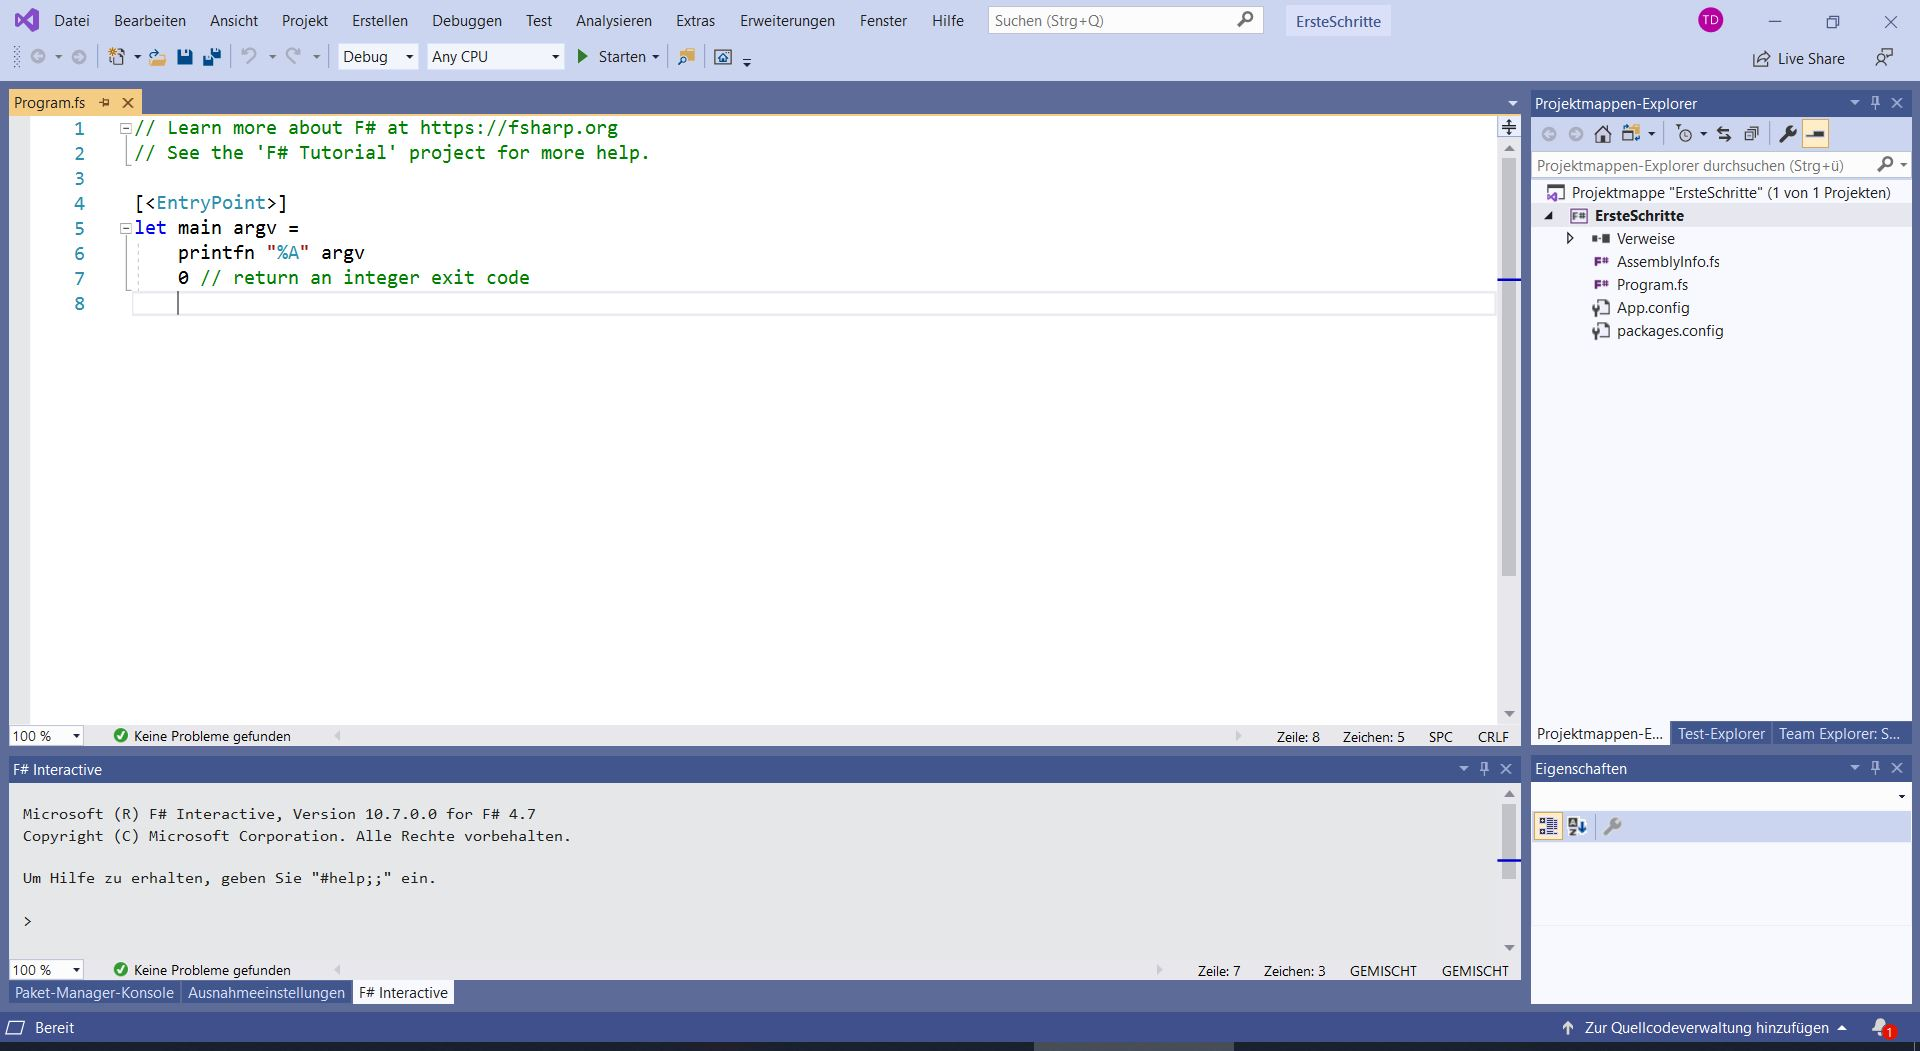
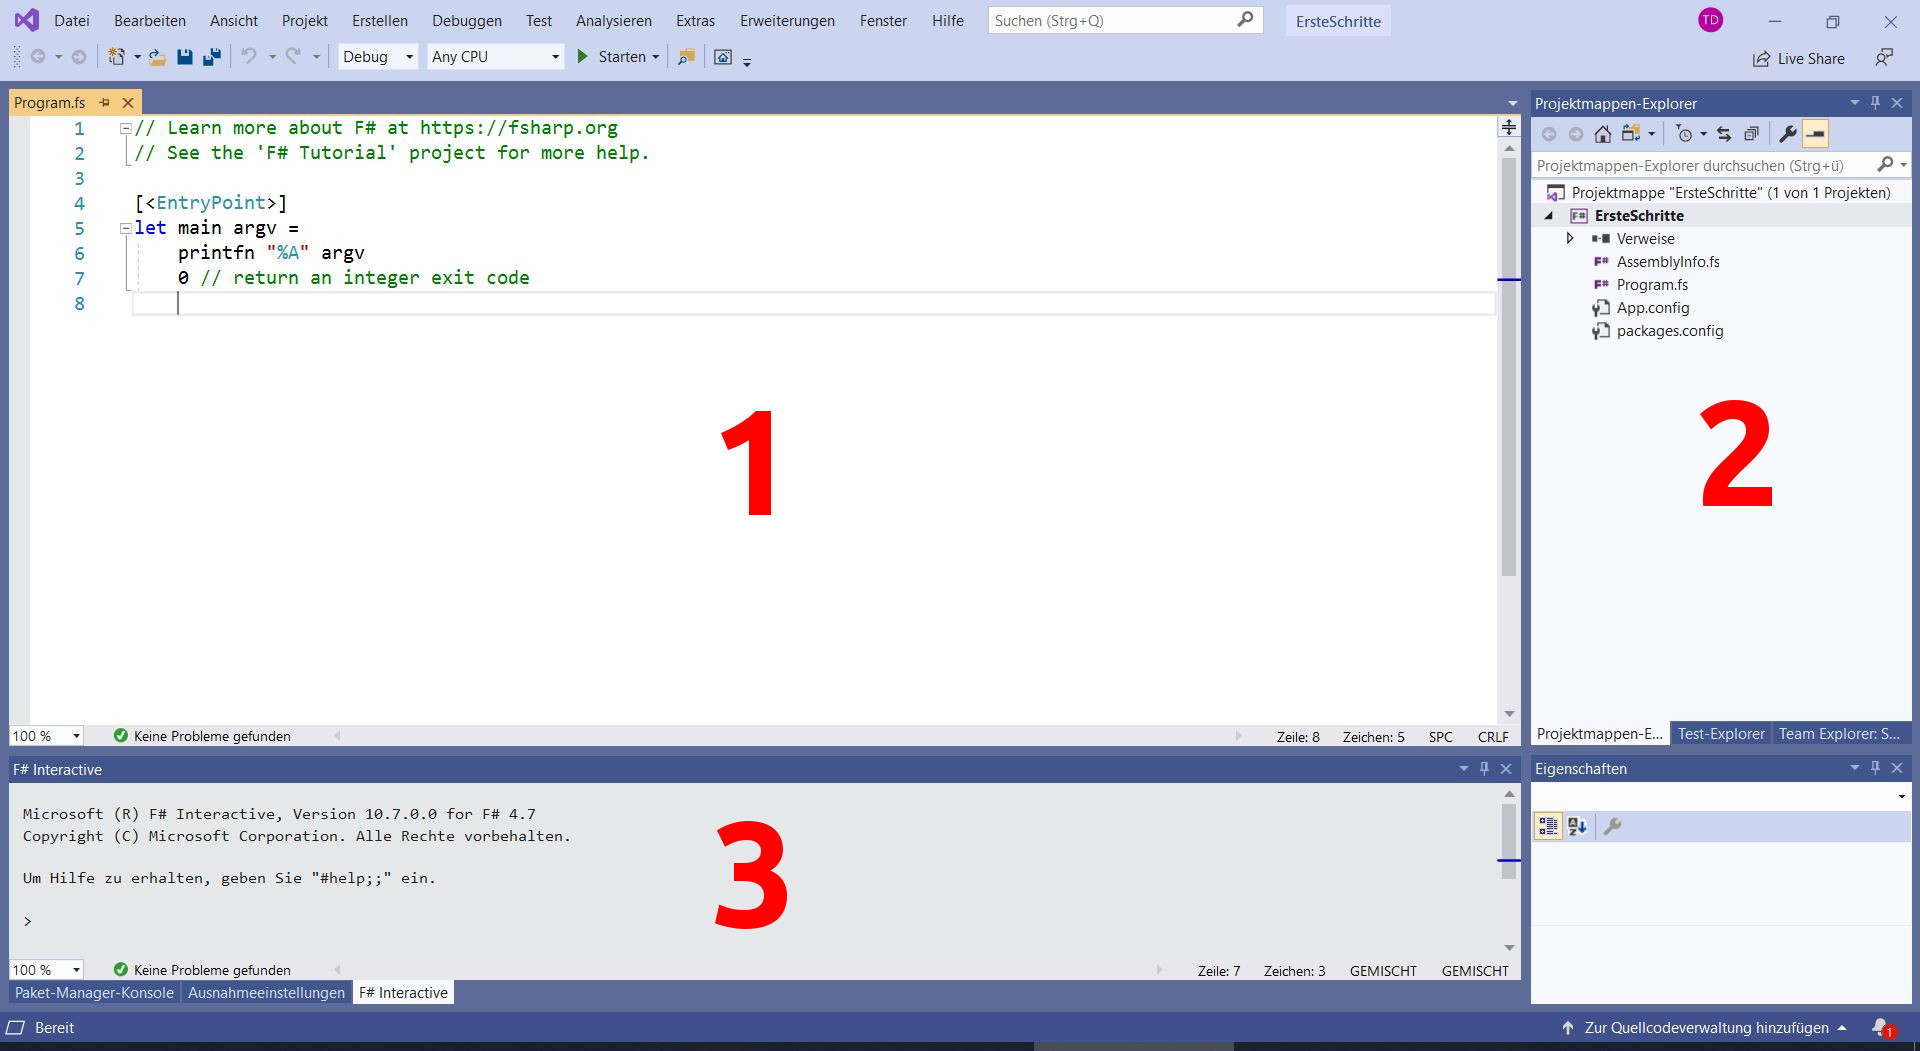
Improve Image & Add Corrections

Changed region(s): [[0.875, 0.3654, 0.9375, 0.4872], [0.375, 0.7612, 0.4062, 0.883], [0.375, 0.3958, 0.4062, 0.4872]]

diff --git a/draft/visualstudio.md b/draft/visualstudio.md
@@ -6,34 +6,34 @@ author: tim-digel
 tags: ["F#", "F Sharp", "Visual Studio", "Einführung", "Erste Schritte", "Projekt", "Start"]
 ---
 
-F# (F Sharp) ist eine von Microsoft entwickelte funktionale Programmiersprache im _.NET_-Universum. Die Syntax erinnert sehr stark an _OCaml_. Microsoft bietet mit _Visual Studio_ eine komplette Entwicklungsumgebung an, die neben F# auch mit vielen weiteren Sprachen zu recht kommt. In diesem Blogpost schauen wir uns erste Schritte im Zusammenspiel von F# mit Visual Code an und erklären einige ungewöhnliche Eigenarten. Wir erklären hier weniger die Sprache an sich. Dafür verweisen wir auf einen zeitnah erscheindenen Blogartikel zum Kennenlernen von F#.  
+F# (F Sharp) ist eine von Microsoft entwickelte funktionale Programmiersprache im _.NET_-Universum. Die Syntax erinnert sehr stark an _OCaml_. Microsoft bietet mit _Visual Studio_ eine komplette Entwicklungsumgebung an, die neben F# auch mit vielen weiteren Sprachen zurecht kommt. In diesem Blogpost sehen wir uns erste Schritte im Zusammenspiel von F# mit Visual Code an und erläutern einige ungewöhnliche Eigenarten. Erklärungen zum Syntax von F# lassen wir weitestgehend außer acht. Dafür verweisen wir auf einen zeitnah erscheinenden Blogartikel zum Kennenlernen von F#.  
 <!-- more start -->
 
 ## Bevor es los geht
 
-Visual Studio ist in der vollumfänglichen Variante nur für Windows verfügbar und ist nicht zu verwechseln mit _Visual Studio Code_. Visual Studio ist in der [Community Edition](https://visualstudio.microsoft.com/de/vs/community/) kostenlos installierbar. Wir wählen bei der Installation das zusätzliche Paket (Workload) _.NET Desktopentwicklung_ aus. F# an sich ist in Visual Studio direkt enthalten.  
+Visual Studio ist in der vollumfänglichen Variante nur für Windows verfügbar und ist nicht zu verwechseln mit _Visual Studio Code_. Visual Studio ist in der [Community Edition](https://visualstudio.microsoft.com/de/vs/community/) kostenlos installierbar. Wir wählen bei der Installation das zusätzliche Paket (Workload) _.NET Desktopentwicklung_ aus. F# ist in Visual Studio direkt enthalten.  
 
-Wir öffnen Visual Studio und wählen _Neues Projekt erstellen_ auf dem Willkommensbildschirm. Im Suchfeld geben wir _F#_ ein und wählen _Konsolenanwendung (.NET Framework)_. Um das Projekt zu erstellen vergeben wir im nächsten Schritt noch den Namen _ErsteSchritte_ und wählen einen Speicherort aus.  
+Wir öffnen Visual Studio und wählen _Neues Projekt erstellen_ auf dem Willkommensbildschirm. Im Suchfeld geben wir _F#_ ein und wählen _Konsolenanwendung (.NET Framework)_. Um das Projekt zu erstellen, vergeben wir im nächsten Schritt noch den Namen _ErsteSchritte_ und wählen einen Speicherort aus.  
 
 ## Übersicht
 
-Das folgende Bild zeigt den groben Aufbau in unserem neu angelegten Projekt.  
+Das folgende Bild zeigt dem Aufbau in unserem neu angelegten Projekt.  
 
 [![Visual Studio Übersicht](2020-01-20-f-sharp-visual-studio-erste-schritte/visual-studio-neues-projekt.jpg "Visual Studio Übersicht")](2020-01-20-f-sharp-visual-studio-erste-schritte/visual-studio-neues-projekt.jpg)
 
-Links oben, im großen Fenster, ist die beispielhafte _Program.fs_ geöffnet. Rechts sehen wir den _Projektmappen-Explorer_. In unserer Projektmappe (Workspace) _ErsteSchritte_ haben wir momentan nur das gleichnamige Projekt (Solution) _ErsteSchritte_. In einer Projektmappe können verschiedene Projekte angelegt werden. Dabei kann jedes Projekte andere Abhängigkeiten und Einstellungen haben (siehe [Abschnitt Pakete mit NuGet installieren](#pakete-mit-nuget-installieren)).  
+Links oben (1) ist die beispielhafte _Program.fs_-Datei geöffnet. Rechts (2) sehen wir den _Projektmappen-Explorer_. In unserer Projektmappe (Workspace) _ErsteSchritte_ haben wir momentan nur das gleichnamige Projekt (Solution) _ErsteSchritte_. In einer Projektmappe können verschiedene Projekte angelegt werden. Dabei kann jedes Projekt andere Abhängigkeiten und Einstellungen haben (siehe [Abschnitt Pakete mit NuGet installieren](#pakete-mit-nuget-installieren)).  
 
-Unten sehen wir _F# Interactive_, die Konsole oder Repl, um direkt F#-Anweisungen ausführen zu können.
+Unten (3) sehen wir _F# Interactive_, die Konsole oder Repl, in der wir direkt F#-Anweisungen ausführen können.
 
 ## F# Interactive
 
-Um die _F# Interactive_ Konsole aufzurufen, können wir eine Codeanweisung, z. B. die `0` aus der beispielhaften _Program.fs_, markieren und im Kontextmenu _Interaktiv ausführen_ wählen. Die Anweisung wird ausgeführt und sollte in unserem Beispiel zu
+Um die _F# Interactive_-Konsole aufzurufen, können wir eine Codeanweisung, z. B. die `0` aus _Program.fs_, markieren und im Kontextmenu _Interaktiv ausführen_ wählen. Die Anweisung wird ausgeführt und sollte in unserem Beispiel zu
 ```fsharp
 val it : int = 0
 ```
-führen. Da wir nur einen Wert eingegeben haben, bindet _F# Interactive_ diesen an die mutierbare Variable _it_. Wir können in späteren Anweisungen den Bezeichner `it` verwenden, um den Wert abzurufen, analog zur `ANS`-Funktionalität bei Taschenrechnern.  
+führen. Da wir nur einen Wert eingegeben haben, bindet _F# Interactive_ diesen an die mutierbare Variable `it`. Wir können in späteren Anweisungen den Bezeichner `it` verwenden, um den Wert abzurufen, analog zur `ANS`-Funktionalität bei Taschenrechnern, die den letzten errechneten Wert (_Answer_) repräsentiert.  
 
-Wir können im Fenster von `F# Interactive` auch direkt Anweisungen eintippen, z. B.:
+Im Fenster von `F# Interactive` lassen sich auch direkt Anweisungen eintippen, z. B.:
 ```fsharp
 4 + 5;;
 ```
@@ -42,7 +42,7 @@ Dabei müssen wir jede Anweisung mit `;;` beenden, um sie mit Enter ausführen z
 
 ## Program.fs
 
-Die _Program.fs_ ist der Startpunkt unserer Anwendung. Innerhalb dieser Datei sehen wir die Markierung `[<EntryPoint>]`, welche die Funktion mit dem Namen `main` als initialen Aufruf festlegt. Ändern wir diese Funktion ab zu:
+_Program.fs_ ist der Startpunkt unserer Anwendung. Innerhalb dieser Datei sehen wir die Markierung `[<EntryPoint>]`, welche die Funktion mit dem Namen `main` als initialen Aufruf festlegt. Wir ändern diese Funktion wie folgt ab:
 ```fsharp
 [<EntryPoint>]
 let main argv =
@@ -55,20 +55,20 @@ Um die Ausgabe sehen zu können, kann die Ausführung auch mit offenbleibendem T
 
 ## Haltepunkte
 
-Alternativ können wir die Zeile mit der `0` markieren und im Kontextmenü _Haltepunkt_, _Haltepunkt einfügen_ auswählen. Wenn wir nun auf Start gehen, unterbricht Visual Studio vor dieser Stelle die Ausführung. Als Folge davon, können wir die Ausgabe in der Konsole betrachten, indem wir das Konsolenfenster in den Vordergrund bringen. Sobald wir auf den Button _Weiter_ drücken, wird der Haltepunkt durchlaufen und unser Beispielprogramm ist beendet. Durch Rechtsklick auf den links sichtbaren Haltepunkt und _Haltepunkt löschen_ können wir diesen wieder entfernen.  
+Alternativ können wir die Zeile mit der `0` markieren und im Kontextmenü _Haltepunkt_, _Haltepunkt einfügen_ auswählen. Wenn wir nun auf Start gehen, unterbricht Visual Studio vor dieser Stelle die Ausführung. Als Folge davon können wir die Ausgabe in der Konsole betrachten, indem wir das Konsolenfenster in den Vordergrund bringen. Sobald wir auf den Button _Weiter_ drücken, wird der Haltepunkt durchlaufen und unser Beispielprogramm ist beendet. Durch Rechtsklick auf den links sichtbaren Haltepunkt und _Haltepunkt löschen_ können wir diesen wieder entfernen.  
 
-Haltepunkte eignen sich später sehr gut zum Debuggen. Hält das Programm an einem Haltepunkt an, zeigen alle bisher berechneten Variablen ihren Wert an, wenn man die Maus darüber hält.
+Haltepunkte eignen sich später sehr gut zum Debuggen. Hält das Programm an einem Haltepunkt an, wird der Weter aller verfügbarerVariablen angezeigt, wenn man die Maus darüber hält.
 
 ## Projektmappen-Explorer
 
-Im obigen Übersichtsbild haben wir rechts den Projektmappen-Explorer erwähnt. Hier sehen wir neben einigen Konfigurationsdateien unsere _Program.fs_. Wir können durch Rechtsklick auf unser Projekt, mit _Hinzufügen_, _Neues Element_, _Quelldatei_ eine neue Modul-Datei hinzufügen. Wir nennen diese _MeinModul.fs_.  
+Im obigen Übersichtsbild sehen wir rechts den Projektmappen-Explorer. Neben einigen Konfigurationsdateien wird unsere _Program.fs_ aufgelistet. Wir können durch Rechtsklick auf unser Projekt, mit _Hinzufügen_, _Neues Element_, _Quelldatei_ eine neue Modul-Datei hinzufügen. Wir nennen diese _MeinModul.fs_.  
 
-Die Datei erscheint im Projektmappen-Explorer an letzter Stelle. Die Dateien werden anhand ihrer Reihenfolge geladen. Da wir später _MeinModul_ aus der Hauptmethode in _Program.fs_ aufrufen wollen, müssen wir _MeinModul.fs_ nach oben schieben. Dazu klicken wir auf die Datei und navigieren sie mit _ALT + PFEIL OBEN_ nach oben. Drag und Drop stellt eine andere Funktionalität dar. Dieses Verhalten soll evtl. in einer zukünftigen Visual Studio Version geändert werden.
+Die Datei erscheint im Projektmappen-Explorer an letzter Stelle. Die Dateien werden der Reihenfolge nach geladen. Da wir später _MeinModul_ aus der Hauptmethode in _Program.fs_ aufrufen wollen, müssen wir _MeinModul.fs_ nach oben schieben. Dazu klicken wir auf die Datei und navigieren sie mit _ALT + PFEIL OBEN_ nach oben. Drag und Drop stellt eine andere Funktionalität dar (duplizieren der Datei). Dieses Verhalten soll evtl. in einer zukünftigen Visual Studio Version geändert werden.
 
 
 ## Live-Kompilierung mit IntelliSense
 
-Wir bearbeiten unsere neu erstellte Modul-Datei und definieren uns die Kreiszahl. Dabei fügen wir zuerst am Ende von `module MeinModul` ein `=`-Zeichen an.
+Wir bearbeiten unsere neu erstellte Modul-Datei und definieren die Kreiszahl. Dabei fügen wir zuerst am Ende von `module MeinModul` ein `=`-Zeichen an.
 ```fsharp
 module MeinModul = 
 
@@ -86,20 +86,20 @@ Wir fügen der _MeinModul.fs_ als erste Zeile
 ```fsharp
 namespace ErsteSchritte
 ```
-hinzu. Das Programm startet jetzt ohne Fehlermeldung. Evtl. bleibt die vorherige Meldung noch in der _Fehlerliste_ sichtbar. Um dies zu lösen, klicken wir rechts auf _ErsteSchritte_ im Projektmappen-Explorer und wählen zuerst _Projekt entladen_ und anschließend _Projekt erneut laden_. Dieses Verhalten hängt mit der neu erstellten _MeinModul.fs_ und der dynamischen Generierung/Überprüfung mit _IntelliSense_ zusammen. _IntelliSense_ compiliert ständig im Hintergrund, um so Meldungen über falschen Syntax, nicht passende Typen oder sonstige Fehler aufmerksam zu machen. Entsprechende Stellen werden rot unterstrichen. Zusätzlich sind sie in der _Fehlerliste_ sichtbar, sofern dort der Modus _Nur IntelliSense_ oder _Erstellen + IntelliSense_ gewählt ist.
-Zusätzlich bietet uns _IntelliSense_ die Möglichkeit der Autovervollständigung.
+hinzu. Das Programm startet jetzt ohne Fehlermeldung. Eventuell. bleibt die vorherige Meldung noch in der _Fehlerliste_ sichtbar. Um dies zu lösen, klicken wir rechts auf _ErsteSchritte_ im Projektmappen-Explorer und wählen zuerst _Projekt entladen_ und anschließend _Projekt erneut laden_. Dieses Verhalten hängt mit der neu erstellten _MeinModul.fs_ und der dynamischen Generierung/Überprüfung mit _IntelliSense_ zusammen. _IntelliSense_ kompiliert ständig im Hintergrund, um so Meldungen über falschen Syntax, nicht passende Typen oder sonstige Fehler aufmerksam zu machen. Entsprechende Stellen werden rot unterstrichen. Zusätzlich sind sie in der _Fehlerliste_ sichtbar, sofern dort der Modus _Nur IntelliSense_ oder _Erstellen + IntelliSense_ gewählt ist.
+Außerdem bietet uns _IntelliSense_ die Möglichkeit der Autovervollständigung.
 
 ## Aufruf einer Funktion
 
-In _Program.fs_ ändern wir die Ausgabe von "Hallo zusammen!" zu Pi, dafür ersetzen wir die Zeile mit `printfn` durch
+In _Program.fs_ ändern wir die Ausgabe von "Hallo zusammen!" auf den Aufruf von `pi` ab. Dafür ersetzen wir die Zeile mit `printfn` durch
 ```fsharp
 printfn "%A" ErsteSchritte.MeinModul.pi
 ```
-Durch Angabe des Namensraum, gefolgt von der Modulbezeichnung, können wir alle nicht privaten Funktionen und Werte aufrufen. Zum Test können wir in _MeinModul.fs_ `let pi` durch `let private pi` ersetzen. In der _Program.fs_ meldet uns nun _IntelliSense_, dass wir auf diesen Wert nicht zugreifen können. _IntelliSense_ erkennt dateiübergreifende Änderung erst nachdem man die Datei gespeichert hat.
+Durch Angabe des Namensraums, gefolgt von der Modulbezeichnung, können wir alle nicht privaten Funktionen und Werte aufrufen. Zum Test können wir in _MeinModul.fs_ `let pi` durch `let private pi` ersetzen. In der _Program.fs_ meldet uns nun _IntelliSense_, dass wir auf diesen Wert nicht zugreifen können. _IntelliSense_ erkennt dateiübergreifende Änderung erst nachdem man die Datei gespeichert hat.
 
 ## Test-Infrastruktur
 
-Da auch bei der Rundung von Pi Fehler entstehen können erstellen wir unmittelbar unseren ersten Testfall. Wir legen uns im Projektmappen-Explorer einen Ordner _Test_ an und erstellen darin die Quellcodedatei `MeinModulTest.fs`. Wir schieben mit _ALT + PFEIL UNTEN_ die _Program.fs_ wieder an die letzte Stelle. Die dort markierte _main_-Methode muss immer in der letzten Datei stehen. Falls erneut die Meldung bzgl. Namespace- oder Moduldeklaration erscheint, müssen wir wie oben beschrieben unser Projekt _ErsteSchritte_ ent- und erneut laden.  
+Da auch bei der Rundung von Pi Fehler entstehen, können erstellen wir unmittelbar unseren ersten Testfall. Wir legen uns im Projektmappen-Explorer einen Ordner _Test_ an und erstellen darin die Quellcodedatei `MeinModulTest.fs`. Wir schieben mit _ALT + PFEIL UNTEN_ die _Program.fs_ wieder an die letzte Stelle. Die dort markierte _main_-Methode muss immer in der letzten Datei stehen. Falls erneut die Meldung bzgl. Namespace- oder Moduldeklaration erscheint, müssen wir wie oben beschrieben unser Projekt _ErsteSchritte_ ent- und erneut laden.  
 
 Als Test-Framework benutzen wir im Folgenden _NUnit_ und _FsUnit_. Diese Pakete installieren wir mit _NuGet_.
 
@@ -107,17 +107,17 @@ Als Test-Framework benutzen wir im Folgenden _NUnit_ und _FsUnit_. Diese Pakete 
 
 Im Projektmappen-Explorer können wir über das Kontextmenü eines Projekts (Solution) oder im Kontextmenü der Projektmappe (Workspace) den Paketmanager aufrufen (_NuGet Pakete verwalten_ bzw. _NuGet Pakete für Projektmappe verwalten_). Je nach dem was wir wählen, installieren wir das Paket für ein einzelnes Projekt oder für die ganze Projektmappe und damit sichtbar für alle Projekte.  
 
-Um ein Paket zu installieren suchen wir ein Paket im Reiter _Durchsuchen_. Wir setzen rechts den Haken vor _Projekt_ und gehen auf _Installieren_. Nach Bestätigung einer Meldung wird das Paket installiert. Wir installieren die Pakete:
+Um ein Paket zu installieren, suchen wir ein Paket im Reiter _Durchsuchen_. Wir setzen rechts den Haken vor _Projekt_ und gehen auf _Installieren_. Nach Bestätigung einer Meldung wird das Paket installiert. Wir installieren die Pakete:
 
 * NUnit
 * NUnit3TestAdapter
 * FsUnit
 
-_NUnit_ stellt die Grundfunktionalität dar. _NUnit3TestAdapter_ ist ein sogenannter Test-Adapter für Visual Studio. Damit lassen sich alle Tests mit dem Test-Explorer von Visual Studio verwalten. _FsUnit_ stellt eine Reihe von Methoden für die Forumulierung von Prüfungen bereit.
+_NUnit_ stellt die Grundfunktionalität des Testframeworks dar. _NUnit3TestAdapter_ ist ein sogenannter Test-Adapter für Visual Studio. Damit lassen sich alle Tests mit dem Test-Explorer von Visual Studio verwalten. _FsUnit_ stellt eine Reihe von Methoden für die Forumulierung von Prüfungen bereit.
 
 ## Testfall definieren und ausführen
 
-Zurück in unserer noch leeren _MeinModulTest.fs_ legen wir erneut einen Namensraum und die Modulstruktur fest. Weiter binden wir unsere zuvor installierten Test-Tools ein:
+Zurück in unserer noch leeren _MeinModulTest.fs_-Datei legen wir erneut einen Namensraum und die Modulstruktur fest. Weiter binden wir unsere zuvor installierten Test-Tools ein:
 ```fsharp
 module MeinModulTest =
     open NUnit.Framework
@@ -129,14 +129,14 @@ Ein Testfall besteht aus der Markierung `[<Test>]` und einer Funktionsdefinition
 let ``Defintion of Pi`` () =
    ErsteSchritte.MeinModul.pi |> should equal 3.141M
 ```
-Um den Testfall auszuführen, gehen wir in den Test-Explorer (_Ansicht_, _Test-Explorer_) und drücken auf den Vorspulen-Pfeil _Alle Tests ausführen_. Damit wird das Projekt gebaut und unser Testfall wird vom Test-Explorer gefunden. Drücken wir erneut _Alle Tests ausführen_ wird er ausgeführt und sollte auch grün werden.  
+Um den Testfall auszuführen, gehen wir in den Test-Explorer (_Ansicht_, _Test-Explorer_) und drücken auf den Vorspulen-Pfeil _Alle Tests ausführen_. Damit wird das Projekt gebaut und unser Testfall wird vom Test-Explorer gefunden. Drücken wir erneut _Alle Tests ausführen_, wird er ausgeführt und sollte auch bestanden werden.  
 
 [![Visual Studio Testfall & Testexplorer](2020-01-20-f-sharp-visual-studio-erste-schritte/visual-studio-tests.jpg "Visual Studio Testfall & Testexplorer")](2020-01-20-f-sharp-visual-studio-erste-schritte/visual-studio-tests.jpg)
 
-Die Tests werden nach Projekten, Namensräume und Modulen gruppiert. In unserem Fall scheint das übertrieben zu sein, bei mehreren Hundert Tests kann später insbesondere durch die Verwendung von Namensräumen einzelne Test-Module weiter gruppiert werden. Innerhalb eines Moduls werden die Tests nach ihrer Position in der Datei sortiert.
+Die Tests werden nach Projekten, Namensräume und Modulen gruppiert. In unserem Fall scheint das übermäßig komplex zu sein. Bei mehreren hundert Tests kommen später, insbesondere durch die Verwendung von Namensräumen, einzelne Test-Module weiter gruppiert werden. Innerhalb eines Moduls werden die Tests nach ihrer Position in der Datei sortiert.
 
 ## Fazit
 
-Visual Studio bietet eine Menge Funktionen zur Entwicklung von F# an. Dabei lassen sich einige Eigenheiten, wie die Sortierung der Projektdateien, nicht leugnen. In diesem Artikel haben wir einen schnellen Rundgang über die Projektstruktur, die Paketverwaltung oder das Testen vollzogen. In einem folgenden Blogartikel schauen wir uns F# an sich näher an. Dort machen wir uns mit dem Syntax der Sprache vertraut.
+Visual Studio bietet eine Menge Funktionen zur Entwicklung mit F# an. Dabei lassen sich einige Eigenheiten, wie die Sortierung der Projektdateien, nicht leugnen. In diesem Artikel haben wir einen schnellen Rundgang über die Projektstruktur, die Paketverwaltung und das Testen vollzogen. In einem folgenden Blogartikel gehen wir näher auf F# ein. Dann machen wir uns mit der Syntax der Sprache vertraut.
  
 <!-- more end -->
